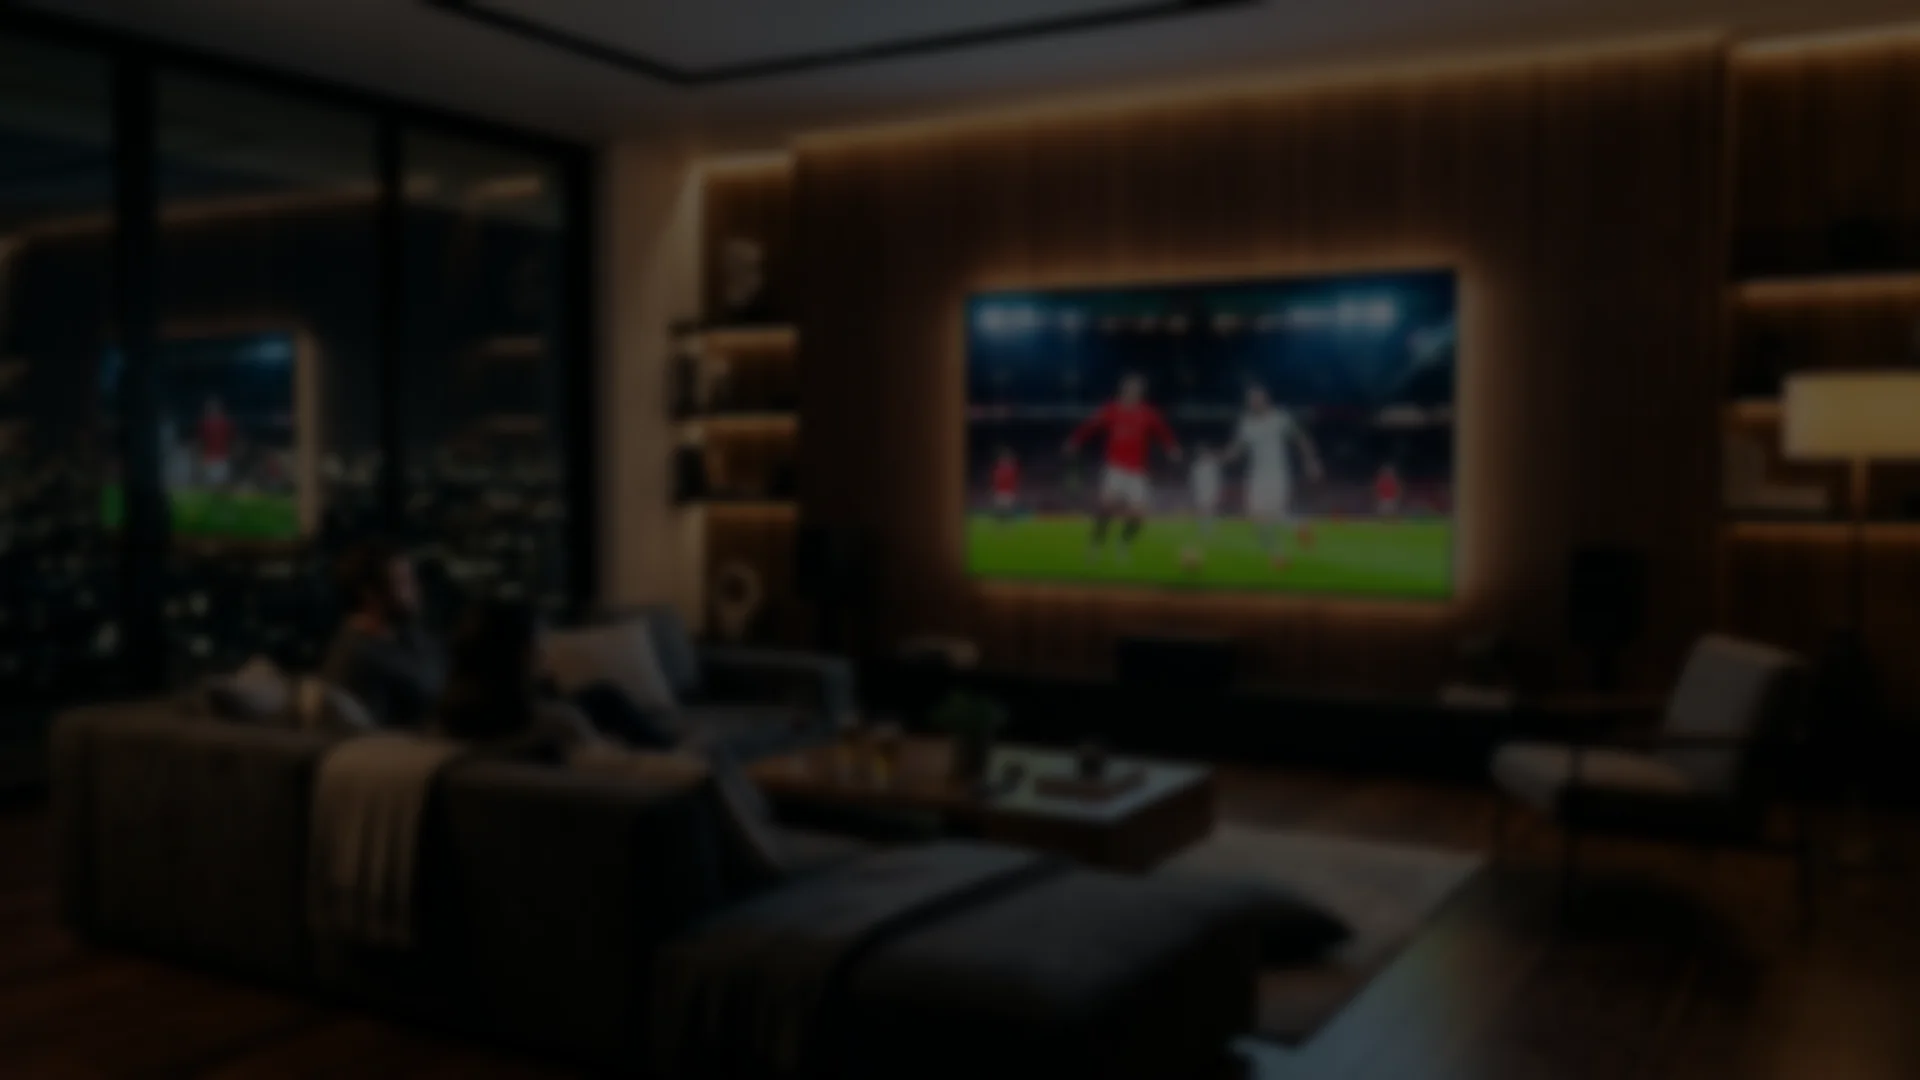
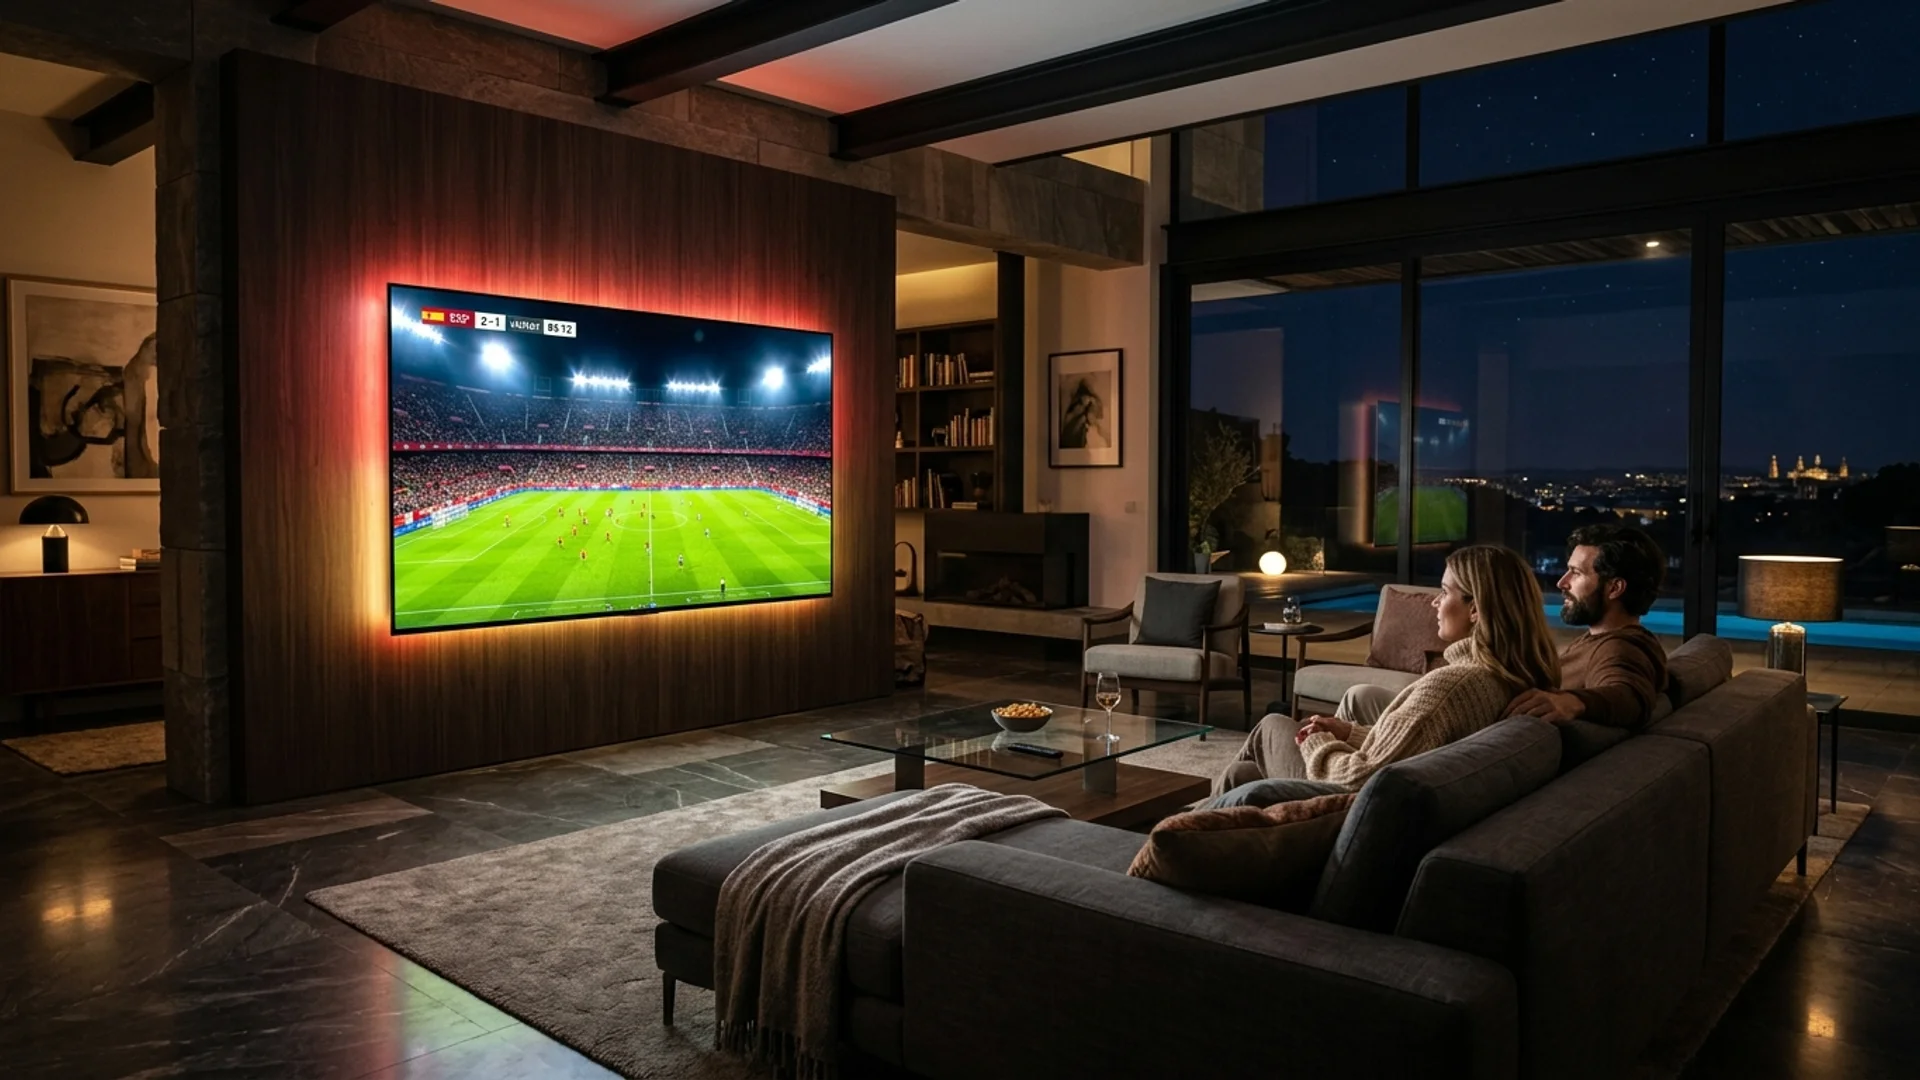
feat: generate cinematic images with SEO-optimized alt texts for all pages and posts, clean legacy assets

diff --git a/src/content/guides/como-ver-laliga-online.md b/src/content/guides/como-ver-laliga-online.md
@@ -4,8 +4,8 @@ description: "Aprende a ver todos los partidos de LaLiga EA Sports en 4K Ultra H
 pubDate: 2026-02-01T10:00:00Z
 updatedDate: 2026-03-24T12:00:00Z
 author: "Equipo Editorial IPTV España"
-image: "/images/sports-streaming-4k.webp"
-imageAlt: "Ver LaLiga en directo 4K online en España"
+image: "/images/laliga-online-streaming-4k.webp"
+imageAlt: "Transmisión en directo de fútbol LaLiga en resolución 4K Ultra HD y 60 FPS sin cortes"
 tags: ["LaLiga Directo", "Ver Fútbol 4K", "Fútbol Online", "El Clásico Directo", "Ahorro Streaming"]
 featured: true
 readingTime: "8 min de lectura"

diff --git a/src/content/guides/smartone-iptv-opiniones.md b/src/content/guides/smartone-iptv-opiniones.md
@@ -4,8 +4,8 @@ description: "Opiniones reales sobre SmartOne IPTV en España. Pros, contras, pr
 pubDate: 2026-02-15T10:00:00Z
 updatedDate: 2026-03-25T12:00:00Z
 author: "Equipo Editorial IPTV España"
-image: "/images/smart-tv-streaming-4k.webp"
-imageAlt: "SmartOne IPTV opiniones y análisis en España 2026"
+image: "/images/smartone-iptv-interfaz.webp"
+imageAlt: "Interfaz oficial del reproductor SmartOne IPTV en Smart TV 4K con guía EPG"
 tags: ["SmartOne IPTV", "Opiniones SmartOne", "Mejor App IPTV", "Smart TV Samsung", "Smart TV LG"]
 featured: true
 readingTime: "7 min de lectura"

diff --git a/src/content/guides/es-legal-el-iptv-en-espana.md b/src/content/guides/es-legal-el-iptv-en-espana.md
@@ -4,8 +4,8 @@ description: "Análisis legal completo sobre el uso de IPTV en España en 2026. 
 pubDate: 2026-01-15T10:00:00Z
 updatedDate: 2026-03-20T12:00:00Z
 author: "Equipo Editorial IPTV España"
-image: "/images/iptv-legal-france.webp"
-imageAlt: "¿Es legal el IPTV en España? Análisis legal y regulatorio 2026"
+image: "/images/iptv-legal-espana.webp"
+imageAlt: "Marco legal de telecomunicaciones y normativa de IPTV en España CNMC"
 tags: ["IPTV Legal España", "Ley Kangaroo", "CNMC", "Seguridad Streaming", "Normativa"]
 featured: true
 readingTime: "7 min de lectura"

diff --git a/src/content/guides/mejor-iptv-espana.md b/src/content/guides/mejor-iptv-espana.md
@@ -4,8 +4,8 @@ description: "Descubre la guía completa para comprar y configurar el mejor serv
 pubDate: 2026-01-10T10:00:00Z
 updatedDate: 2026-03-22T12:00:00Z
 author: "Equipo Editorial IPTV España"
-image: "/images/sports-streaming-4k.webp"
-imageAlt: "Mejor servicio IPTV España 2026 streaming 4K fútbol"
+image: "/images/mejor-iptv-espana-streaming.webp"
+imageAlt: "Mejor servicio IPTV España 2026 streaming 4K de fútbol y cine en Smart TV"
 tags: ["IPTV España", "Comprar IPTV", "Streaming 4K", "LaLiga Directo", "PayPal"]
 featured: true
 readingTime: "6 min de lectura"
